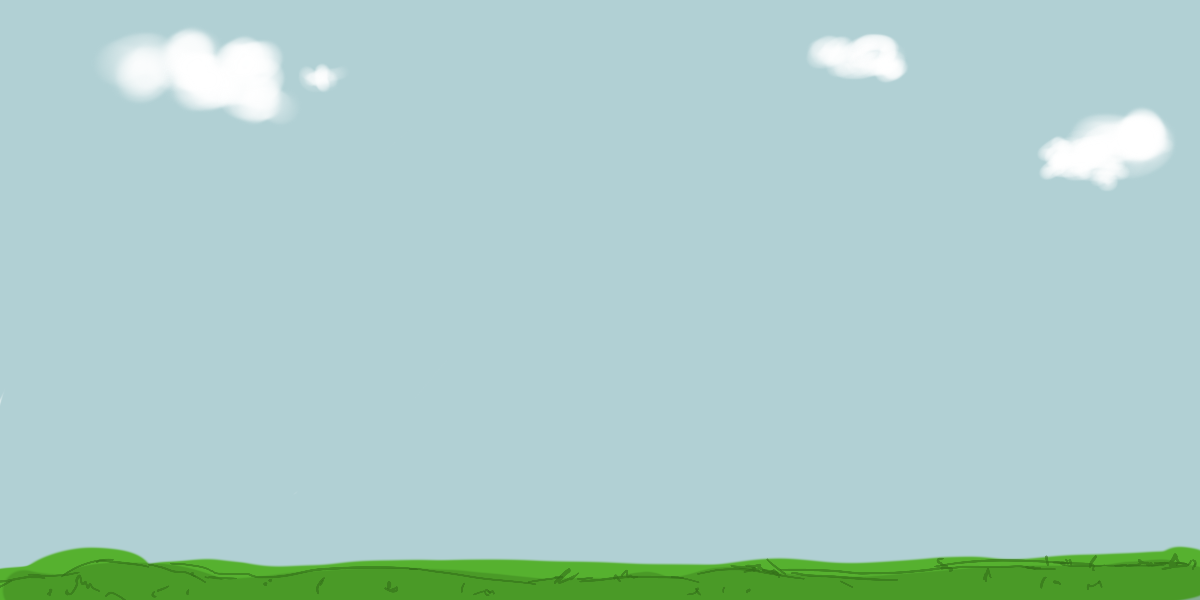
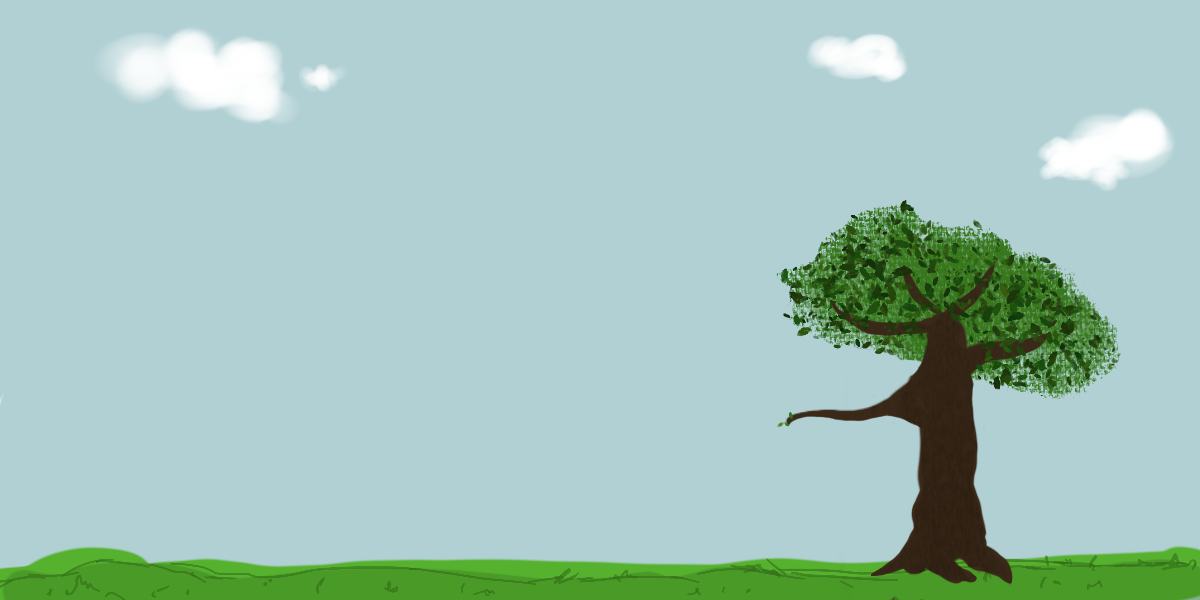
updated bg and platform color

Changed region(s): [[0.6475, 0.33, 0.9558, 0.99]]

diff --git a/cat_about_town.py b/cat_about_town.py
@@ -342,7 +342,7 @@ class Platform(object):
         self.hitbox = (self.x, self.y, 104, 5, 2)
 
     def draw(self, win):
-        pygame.draw.rect(win, (0, 0, 0), (self.x, self.y, 104, 5))
+        pygame.draw.rect(win, (58, 41, 25), (self.x, self.y, 104, 5))
         self.hitbox = (self.x, self.y, 104, 2)
 
 
@@ -366,8 +366,8 @@ def redraw_game_window():
 font = pygame.font.SysFont('arial', 32, True)
 stick = Platform(800, 410)
 george = Player(50, 525, 64, 64)
-red_bird = RedBird(90, 185, 64, 64, 850)
-brown_bird = BrownBird(200, 385, 64, 64, 1080)
+red_bird = RedBird(400, 185, 64, 64, 1080)
+brown_bird = BrownBird(200, 385, 64, 64, 830)
 rat = Rat(450, 543, 64, 64, 1030)
 atk_loop = 0 # our attack cool down
 bullets = []
